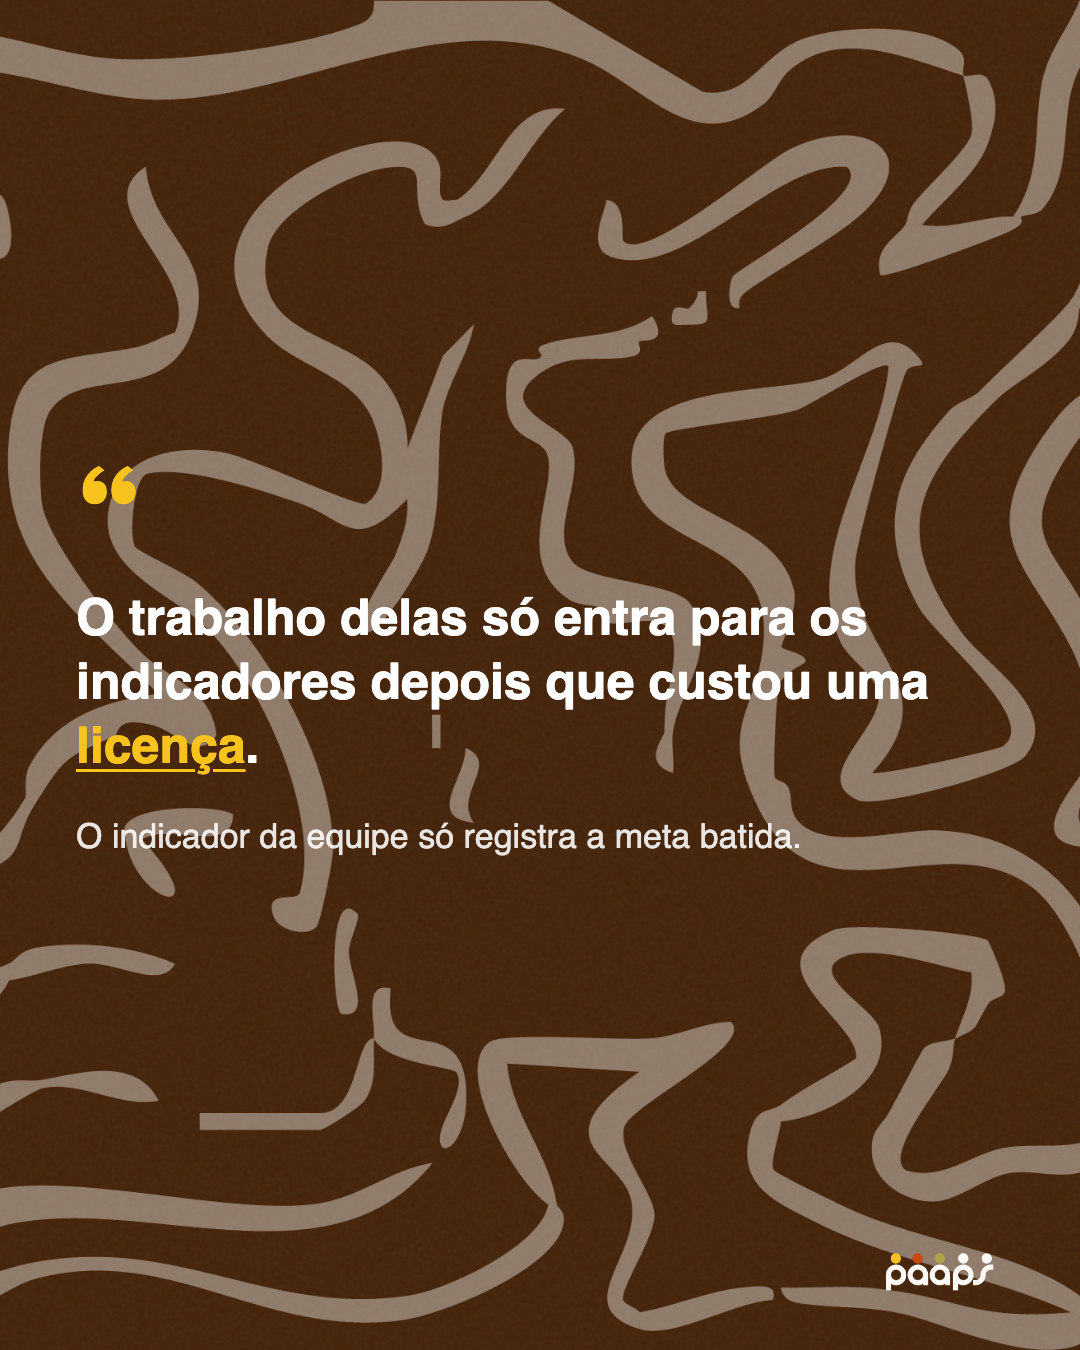
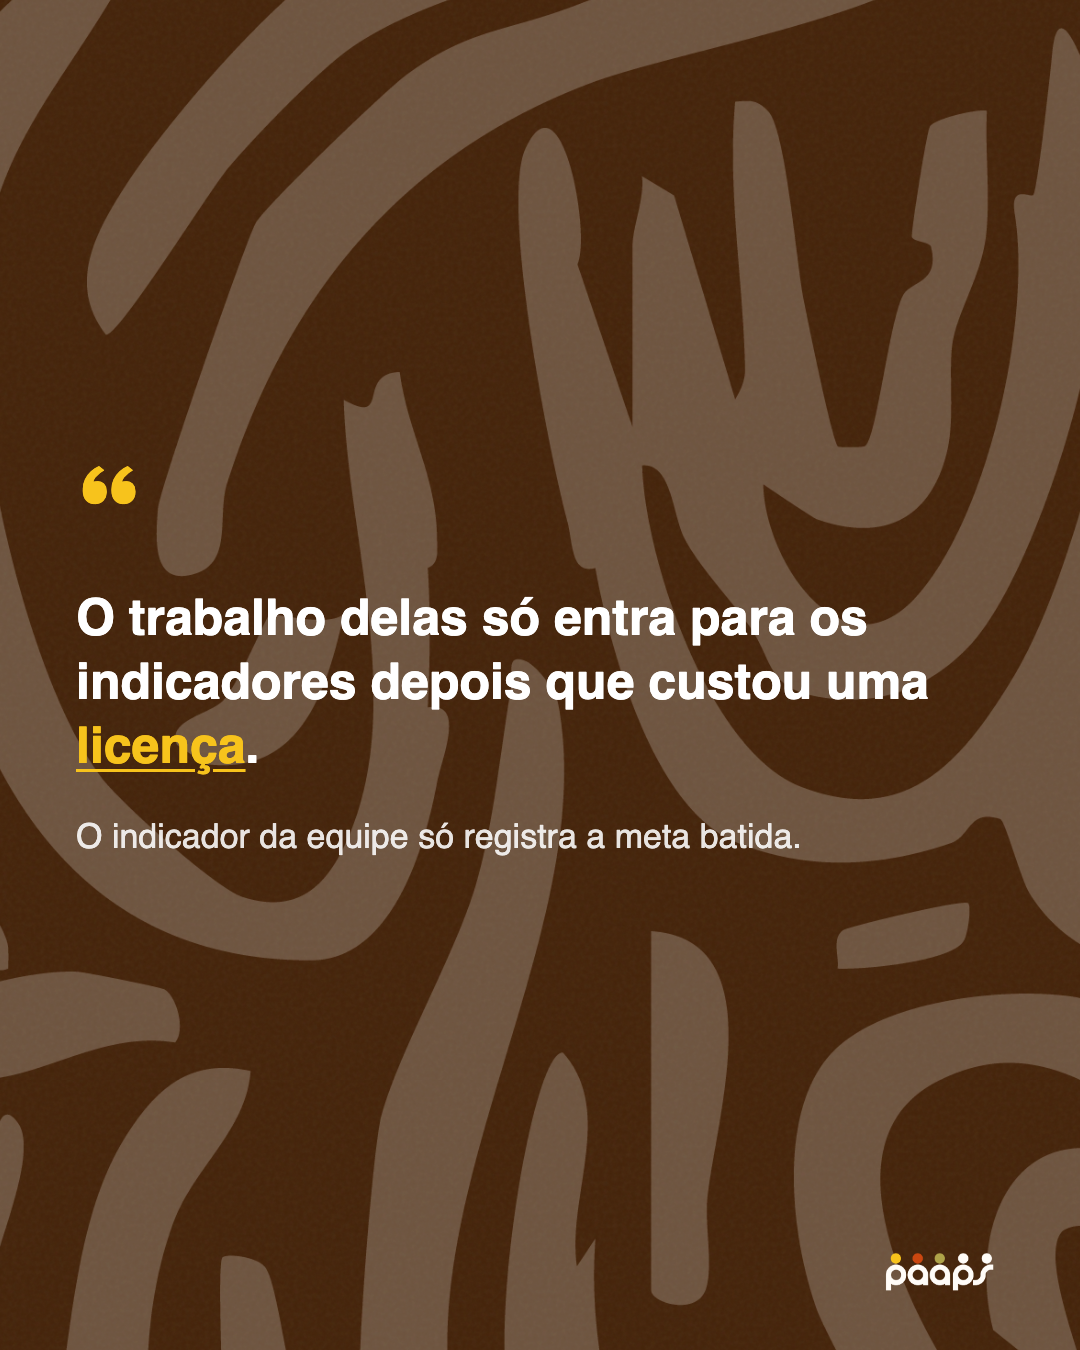
auto: conteudo, sessoes - 2026-08-31 08:21

diff --git a/conteudo/PARA-APROVAR-mulheres-no-cuidado/montagem-30-08/teste-textura.html b/conteudo/PARA-APROVAR-mulheres-no-cuidado/montagem-30-08/teste-textura.html
@@ -1,0 +1,47 @@
+<!DOCTYPE html>
+<html><head><meta charset="UTF-8"><style>
+*{margin:0;padding:0;box-sizing:border-box;}
+body{background:#111;font-family:Helvetica,Arial,sans-serif;}
+.grid{display:grid;grid-template-columns:repeat(4,300px);gap:8px;padding:8px;}
+.sw{position:relative;width:300px;height:220px;overflow:hidden;display:flex;flex-direction:column;justify-content:flex-end;padding:14px;color:#fff;font-size:13px;}
+.sw.bege{background:#f5f1e1;color:#442309;}
+.sw.marrom{background:#442309;color:#fff;}
+.tex{position:absolute;inset:0;background-repeat:repeat;background-position:center;}
+.label{position:relative;z-index:2;font-weight:700;background:rgba(0,0,0,0.35);padding:2px 6px;display:inline-block;}
+.sw.bege .label{background:rgba(255,255,255,0.55);color:#442309;}
+</style></head>
+<body>
+<div class="grid">
+
+  <!-- Textura 1, bege, tamanhos/opacidades -->
+  <div class="sw bege"><div class="tex" style="background-image:url('/Users/mac/Documents/SITE PAAPS/insumos-compartilhados/identidade-visual/04-texturas/Paaps - Textura 1 marrom-8.png');background-size:30%;opacity:1;"></div><span class="label">T1 · 30% tile · op 1</span></div>
+  <div class="sw bege"><div class="tex" style="background-image:url('/Users/mac/Documents/SITE PAAPS/insumos-compartilhados/identidade-visual/04-texturas/Paaps - Textura 1 marrom-8.png');background-size:30%;opacity:0.5;"></div><span class="label">T1 · 30% tile · op .5</span></div>
+  <div class="sw bege"><div class="tex" style="background-image:url('/Users/mac/Documents/SITE PAAPS/insumos-compartilhados/identidade-visual/04-texturas/Paaps - Textura 1 marrom-8.png');background-size:60%;opacity:0.35;"></div><span class="label">T1 · 60% tile · op .35</span></div>
+  <div class="sw bege"><div class="tex" style="background-image:url('/Users/mac/Documents/SITE PAAPS/insumos-compartilhados/identidade-visual/04-texturas/Paaps - Textura 1 marrom-8.png');background-size:15%;opacity:0.6;"></div><span class="label">T1 · 15% tile · op .6</span></div>
+
+  <!-- Textura 3, bege -->
+  <div class="sw bege"><div class="tex" style="background-image:url('/Users/mac/Documents/SITE PAAPS/insumos-compartilhados/identidade-visual/04-texturas/Paaps - Textura 3 marrom-8.png');background-size:30%;opacity:0.5;"></div><span class="label">T3 · 30% tile · op .5</span></div>
+  <div class="sw bege"><div class="tex" style="background-image:url('/Users/mac/Documents/SITE PAAPS/insumos-compartilhados/identidade-visual/04-texturas/Paaps - Textura 3 marrom-8.png');background-size:60%;opacity:0.35;"></div><span class="label">T3 · 60% tile · op .35</span></div>
+  <div class="sw bege"><div class="tex" style="background-image:url('/Users/mac/Documents/SITE PAAPS/insumos-compartilhados/identidade-visual/04-texturas/Paaps - Textura 3 marrom-8.png');background-size:15%;opacity:0.6;"></div><span class="label">T3 · 15% tile · op .6</span></div>
+  <div class="sw bege"><div class="tex" style="background-image:url('/Users/mac/Documents/SITE PAAPS/insumos-compartilhados/identidade-visual/04-texturas/Paaps - Textura 3 marrom-8.png');background-size:100%;opacity:0.3;"></div><span class="label">T3 · 100% · op .3</span></div>
+
+  <!-- Textura 4, bege -->
+  <div class="sw bege"><div class="tex" style="background-image:url('/Users/mac/Documents/SITE PAAPS/insumos-compartilhados/identidade-visual/04-texturas/Paaps - Textura 4 marrom-8.png');background-size:30%;opacity:0.5;"></div><span class="label">T4 · 30% tile · op .5</span></div>
+  <div class="sw bege"><div class="tex" style="background-image:url('/Users/mac/Documents/SITE PAAPS/insumos-compartilhados/identidade-visual/04-texturas/Paaps - Textura 4 marrom-8.png');background-size:60%;opacity:0.3;"></div><span class="label">T4 · 60% tile · op .3</span></div>
+  <div class="sw bege"><div class="tex" style="background-image:url('/Users/mac/Documents/SITE PAAPS/insumos-compartilhados/identidade-visual/04-texturas/Paaps - Textura 4 marrom-8.png');background-size:15%;opacity:0.6;"></div><span class="label">T4 · 15% tile · op .6</span></div>
+  <div class="sw bege"><div class="tex" style="background-image:url('/Users/mac/Documents/SITE PAAPS/insumos-compartilhados/identidade-visual/04-texturas/Paaps - Textura 4 marrom-8.png');background-size:8%;opacity:0.8;"></div><span class="label">T4 · 8% tile · op .8</span></div>
+
+  <!-- Textura 5, bege -->
+  <div class="sw bege"><div class="tex" style="background-image:url('/Users/mac/Documents/SITE PAAPS/insumos-compartilhados/identidade-visual/04-texturas/Paaps - Textura 5 marrom-8.png');background-size:30%;opacity:0.5;"></div><span class="label">T5 · 30% tile · op .5</span></div>
+  <div class="sw bege"><div class="tex" style="background-image:url('/Users/mac/Documents/SITE PAAPS/insumos-compartilhados/identidade-visual/04-texturas/Paaps - Textura 5 marrom-8.png');background-size:15%;opacity:0.6;"></div><span class="label">T5 · 15% tile · op .6</span></div>
+  <div class="sw bege"><div class="tex" style="background-image:url('/Users/mac/Documents/SITE PAAPS/insumos-compartilhados/identidade-visual/04-texturas/Paaps - Textura 5 marrom-8.png');background-size:8%;opacity:0.8;"></div><span class="label">T5 · 8% tile · op .8</span></div>
+  <div class="sw bege"><div class="tex" style="background-image:url('/Users/mac/Documents/SITE PAAPS/insumos-compartilhados/identidade-visual/04-texturas/Paaps - Textura 5 marrom-8.png');background-size:40%;opacity:0.4;"></div><span class="label">T5 · 40% tile · op .4</span></div>
+
+  <!-- Escuro: mesmas texturas em branco sobre marrom -->
+  <div class="sw marrom"><div class="tex" style="background-image:url('/Users/mac/Documents/SITE PAAPS/insumos-compartilhados/identidade-visual/04-texturas/Paaps - Textura 1 branco-8.png');background-size:30%;opacity:0.5;"></div><span class="label">T1b · 30% tile · op .5</span></div>
+  <div class="sw marrom"><div class="tex" style="background-image:url('/Users/mac/Documents/SITE PAAPS/insumos-compartilhados/identidade-visual/04-texturas/Paaps - Textura 3 branco-8.png');background-size:30%;opacity:0.5;"></div><span class="label">T3b · 30% tile · op .5</span></div>
+  <div class="sw marrom"><div class="tex" style="background-image:url('/Users/mac/Documents/SITE PAAPS/insumos-compartilhados/identidade-visual/04-texturas/Paaps - Textura 4 branco-8.png');background-size:15%;opacity:0.6;"></div><span class="label">T4b · 15% tile · op .6</span></div>
+  <div class="sw marrom"><div class="tex" style="background-image:url('/Users/mac/Documents/SITE PAAPS/insumos-compartilhados/identidade-visual/04-texturas/Paaps - Textura 5 branco-8.png');background-size:15%;opacity:0.6;"></div><span class="label">T5b · 15% tile · op .6</span></div>
+
+</div>
+</body></html>

diff --git a/conteudo/PARA-APROVAR-mulheres-no-cuidado/montagem-30-08/index.html b/conteudo/PARA-APROVAR-mulheres-no-cuidado/montagem-30-08/index.html
@@ -36,12 +36,13 @@
   /* véu chapado, uniforme — nunca gradiente. Opacidade varia por slide via style inline. */
   .escurecer{position:absolute;inset:0;z-index:1;background:#000;}
 
-  /* textura de marca — Textura 2. O PNG já embute ~25% de opacidade no próprio arquivo
-     (marrom sobre transparente / branco sobre transparente); a opacidade CSS fica em 1,
-     nunca reduzir de novo por cima, senão some. Marrom vai em fundo claro; branco vai em
-     fundo escuro. */
+  /* textura de marca — Textura 3 (fundo claro) e Textura 1 (fundo escuro), em mosaico
+     pequeno (nunca "cover": em escala grande vira 1-2 traços gigantes brigando com o
+     texto, "parece onça"). O PNG já embute ~25% de opacidade própria; opacidade CSS
+     0.4 por cima disso é o ponto calibrado visualmente contra grade de teste
+     (ver teste-textura.html) — visível, tom sobre tom, sem competir com a letra. */
   .textura{position:absolute;inset:0;z-index:1;pointer-events:none;
-           background-repeat:no-repeat;background-position:center;background-size:cover;opacity:0.4;}
+           background-repeat:no-repeat;background-position:center;background-size:140%;opacity:0.22;}
   .textura--marrom{background-image:url('texturas/textura-marrom.png');}
   .textura--branco{background-image:url('texturas/textura-branco.png');}
 
@@ -154,6 +155,7 @@
 <!-- SLIDE 3 : DADO EM CARD (variante A — card bege/creme, com textura) -->
 <section class="slide" id="s3">
   <img class="foto" src="fotos/slide3.jpg">
+  <div class="textura textura--branco" style="top:620px;bottom:0;"></div>
   <div class="card">
     <div class="textura textura--marrom"></div>
     <div class="headline-media">ENTRE TÉCNICAS E AUXILIARES DE ENFERMAGEM, MAIS DE METADE SE AUTODECLARA <span class="amarelo">NEGRA</span>.</div>

diff --git a/sessoes/sessao-2026-08-31.md b/sessoes/sessao-2026-08-31.md
@@ -1,0 +1,15 @@
+# Log de Sessão - 2026-08-31
+
+## 08:21
+```
+ M conteudo/PARA-APROVAR-mulheres-no-cuidado/montagem-30-08/export/slide-03a.png
+ M conteudo/PARA-APROVAR-mulheres-no-cuidado/montagem-30-08/export/slide-03b.png
+ M conteudo/PARA-APROVAR-mulheres-no-cuidado/montagem-30-08/export/slide-06.png
+ M conteudo/PARA-APROVAR-mulheres-no-cuidado/montagem-30-08/export/slide-07.png
+ M conteudo/PARA-APROVAR-mulheres-no-cuidado/montagem-30-08/index.html
+ M conteudo/PARA-APROVAR-mulheres-no-cuidado/montagem-30-08/texturas/textura-branco.png
+ M conteudo/PARA-APROVAR-mulheres-no-cuidado/montagem-30-08/texturas/textura-marrom.png
+?? conteudo/PARA-APROVAR-mulheres-no-cuidado/montagem-30-08/teste-textura.html
+?? conteudo/PARA-APROVAR-mulheres-no-cuidado/montagem-30-08/teste-textura.png
+```
+
